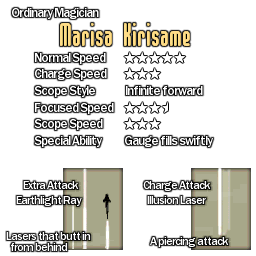
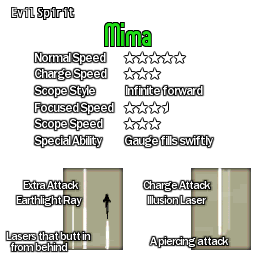
Some more changes

Changed region(s): [[0.0312, 0.0, 0.75, 0.1875]]

diff --git a/mima/files.js b/mima/files.js
@@ -48,10 +48,10 @@
 	"th09/data/pl/pl01b/pl01b_fc_sp_b.png": 779145043,
 	"th09/data/pl/pl01b/pl01b_fc_sw.png": 2946261874,
 	"th09/data/pl/pl01b/pl01b_fc_sw_b.png": 1165171115,
-	"th09/data/result/result02.png": null,
+	"th09/data/result/result02.png": 2096358788,
 	"th09/data/title/slname.png": 3276122086,
 	"th09/data/title/slpl01.png": 4053439070,
-	"th09/data/title/slpl01tx.png": 1748143564,
+	"th09/data/title/slpl01tx.png": 2687076667,
 	"th09/data/title/slstname.png": 872733534,
 	"th09/th09logo.jpg": 1823802917,
 	"th10/face/pl01/face_pl01an_u.png": 1868188420,
